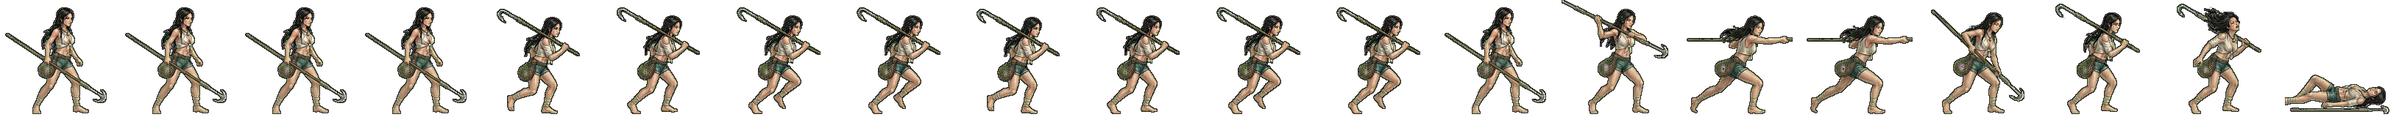
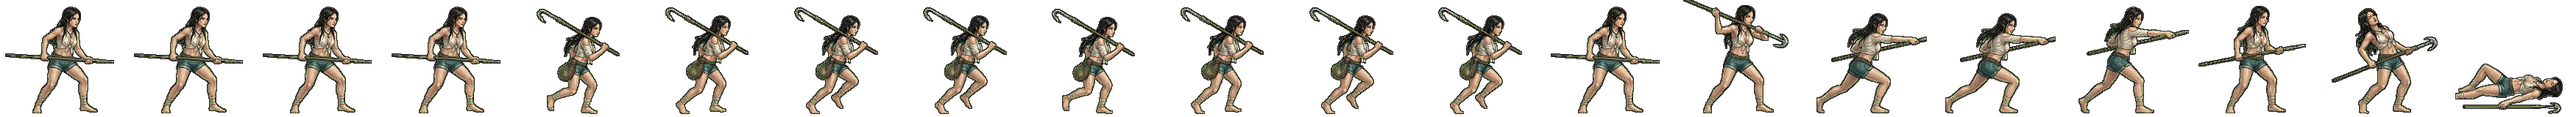
전투 띠 새로: sinneoul 동작 띠 다시 — 형이 구움 (굽기 꾸러미 · 검수 1·3번) (형 11-08)
Claude-Session: https://claude.ai/code/session_01TRiuNAG8xSjdmjCFpc8Rd5

Changed region(s): [[0.0, 0.0, 1.0, 0.9688]]

diff --git a/src/ui/realm/battle-strikes.ts b/src/ui/realm/battle-strikes.ts
@@ -143,7 +143,7 @@ const CONTACT: Readonly<Record<string, [number, number, number]>> = {
   'gen-haebi': [14, 0.87, 0.53], 'gen-heo': [14, 0.94, 0.46], 'gen-hyeokgeose': [14, 0.83, 0.94],
   'gen-hyeopbo': [14, .93, .21], 'gen-malgalgi': [14, 0.88, 0.28], 'gen-mari': [14, .98, .47],
   'gen-oi': [14, .98, .48], 'gen-onjo': [14, 0.83, 0.93], 'gen-soebi': [14, 0.80, 0.95],
-  'gen-soseono': [14, 0.92, 0.31], 'gen-maryeo': [14, 0.91, 0.79], 'gen-horselord': [14, 0.89, 0.25], 'gen-olddaeso': [14, 0.93, 0.91], 'gen-maro': [14, 0.97, 0.49], 'gen-gwaeyu': [14, 0.98, 0.71], 'gen-daemusin': [14, 0.91, 0.38], 'gen-tahae': [14, 0.91, 0.74], 'gen-ocheongan': [14, 0.82, 0.49], 'gen-yusugan': [14, 0.95, 0.70], 'gen-odogan': [14, 0.93, 0.28], 'gen-pidogan': [14, 0.94, 0.75], 'gen-yeodogan': [14, 0.93, 0.57], 'gen-adogan': [14, 0.95, 0.41], 'gen-musoe': [14, 0.94, 0.39], 'gen-suro': [14, 0.82, 0.53], 'gen-waechief': [14, 0.95, 0.68], 'gen-hojin': [14, 0.97, 0.64], 'gen-jita': [14, 0.94, 0.34], 'gen-guryema': [14, 0.89, 0.28], 'gen-jibaekho': [14, 0.97, 0.33], 'gen-sobeol': [14, 0.95, 0.33], 'gen-alpyeong': [14, 0.95, 0.54], 'gen-hogong': [14, 0.98, 0.27], 'gen-geumbawi': [14, 0.91, 0.92], 'gen-keundol': [14, 0.90, 0.68], 'gen-jinha': [14, 0.76, 0.93], 'gen-duman': [14, 0.97, 0.39], 'gen-gomok': [14, 0.94, 0.57], 'gen-hneoul': [14, 0.92, 0.27], 'gen-tneoul': [14, 0.84, 0.57], 'gen-sdallae': [14, 0.89, 0.29], 'gen-yucheongan': [14, 0.97, 0.64], 'gen-sincheongan': [14, 0.91, 0.71], 'gen-singwigan': [14, 0.91, 0.27], 'gen-mdallae': [14, 0.98, 0.30], 'gen-mulbeom': [14, 0.97, 0.36], 'gen-beomi': [14, 0.88, 0.43], 'gen-danbi': [14, 0.90, 0.30], 'gen-mulsae': [14, 0.93, 0.36], 'gen-darae': [14, 0.89, 0.29], 'gen-mir': [14, 0.91, 0.33], 'gen-wan': [14, 0.94, 0.30], 'gen-gom': [14, 0.94, 0.74], 'gen-sagong': [14, 0.79, 0.96], 'gen-halla': [14, 0.86, 0.46], 'gen-areum': [14, 0.86, 0.65], 'gen-dokmudeom': [14, 0.92, 0.29], 'gen-beom': [14, 0.98, 0.28], 'gen-baram': [14, 0.96, 0.24], 'gen-goeun': [14, 0.95, 0.66], 'gen-byeol': [14, 0.76, 0.96], 'gen-sinneoul': [14, 0.94, 0.33], 'gen-haesol': [14, 0.95, 0.39], 'gen-odi': [14, 0.95, 0.37], 'gen-irang': [14, 0.86, 0.30], 'gen-dalli': [14, 0.89, 0.32], 'gen-bakdal': [14, 0.94, 0.27], 'gen-noeul': [14, 0.88, 0.27], 'gen-maehwa': [14, 0.90, 0.31], 'gen-gaon': [14, 0.98, 0.48], 'gen-eomni': [14, 0.96, 0.42], 'gen-nuri': [14, 0.98, 0.42], 'gen-bira': [14, 0.88, 0.42], 'gen-gureum': [14, 0.98, 0.42],
+  'gen-soseono': [14, 0.92, 0.31], 'gen-maryeo': [14, 0.91, 0.79], 'gen-horselord': [14, 0.89, 0.25], 'gen-olddaeso': [14, 0.93, 0.91], 'gen-maro': [14, 0.97, 0.49], 'gen-gwaeyu': [14, 0.98, 0.71], 'gen-daemusin': [14, 0.91, 0.38], 'gen-tahae': [14, 0.91, 0.74], 'gen-ocheongan': [14, 0.82, 0.49], 'gen-yusugan': [14, 0.95, 0.70], 'gen-odogan': [14, 0.93, 0.28], 'gen-pidogan': [14, 0.94, 0.75], 'gen-yeodogan': [14, 0.93, 0.57], 'gen-adogan': [14, 0.95, 0.41], 'gen-musoe': [14, 0.94, 0.39], 'gen-suro': [14, 0.82, 0.53], 'gen-waechief': [14, 0.95, 0.68], 'gen-hojin': [14, 0.97, 0.64], 'gen-jita': [14, 0.94, 0.34], 'gen-guryema': [14, 0.89, 0.28], 'gen-jibaekho': [14, 0.97, 0.33], 'gen-sobeol': [14, 0.95, 0.33], 'gen-alpyeong': [14, 0.95, 0.54], 'gen-hogong': [14, 0.98, 0.27], 'gen-geumbawi': [14, 0.91, 0.92], 'gen-keundol': [14, 0.90, 0.68], 'gen-jinha': [14, 0.76, 0.93], 'gen-duman': [14, 0.97, 0.39], 'gen-gomok': [14, 0.94, 0.57], 'gen-hneoul': [14, 0.92, 0.27], 'gen-tneoul': [14, 0.84, 0.57], 'gen-sdallae': [14, 0.89, 0.29], 'gen-yucheongan': [14, 0.97, 0.64], 'gen-sincheongan': [14, 0.91, 0.71], 'gen-singwigan': [14, 0.91, 0.27], 'gen-mdallae': [14, 0.98, 0.30], 'gen-mulbeom': [14, 0.97, 0.36], 'gen-beomi': [14, 0.88, 0.43], 'gen-danbi': [14, 0.90, 0.30], 'gen-mulsae': [14, 0.93, 0.36], 'gen-darae': [14, 0.89, 0.29], 'gen-mir': [14, 0.91, 0.33], 'gen-wan': [14, 0.94, 0.30], 'gen-gom': [14, 0.94, 0.74], 'gen-sagong': [14, 0.79, 0.96], 'gen-halla': [14, 0.86, 0.46], 'gen-areum': [14, 0.86, 0.65], 'gen-dokmudeom': [14, 0.92, 0.29], 'gen-beom': [14, 0.98, 0.28], 'gen-baram': [14, 0.96, 0.24], 'gen-goeun': [14, 0.95, 0.66], 'gen-byeol': [14, 0.76, 0.96], 'gen-sinneoul': [14, 0.95, 0.33], 'gen-haesol': [14, 0.95, 0.39], 'gen-odi': [14, 0.95, 0.37], 'gen-irang': [14, 0.86, 0.30], 'gen-dalli': [14, 0.89, 0.32], 'gen-bakdal': [14, 0.94, 0.27], 'gen-noeul': [14, 0.88, 0.27], 'gen-maehwa': [14, 0.90, 0.31], 'gen-gaon': [14, 0.98, 0.48], 'gen-eomni': [14, 0.96, 0.42], 'gen-nuri': [14, 0.98, 0.42], 'gen-bira': [14, 0.88, 0.42], 'gen-gureum': [14, 0.98, 0.42],
   'gen-biryu': [14, 0.90, 0.35], 'gen-geumha': [14, 0.94, 0.61], 'gen-geota': [14, 0.86, 0.47], 'gen-soebo': [14, 0.87, 0.57],
   'gen-gaennae': [14, 249 / 264, 47 / 160],
   'gen-budeul': [14, 266 / 280, 51 / 160],

diff --git a/src/realm/data/art.ts b/src/realm/data/art.ts
@@ -520,7 +520,7 @@ export const GEN_ANIM: Readonly<Partial<Record<string, { ar: number; body: numbe
   soenun: { ar: 280 / 160, body: 0.9375 }, // 11-08 쇠눈 · 제미나이 u/2 2×2(겨눔·찌르기·거둠·피격) + 새 대화 쓰러짐 · 갯내 4실보행 하체(짙은 바지 · 걷는 동안 쇠 정강이받이는 장화로 보인다) · 창 자루는 걷기에도 남긴다
   odi: { ar: 155 / 160, body: 0.906 }, // 11-08 초상대로 다시 (형: 「투구 쓰고 원본과 다르다」 · 제미나이 걷기 4×2 + 동작 4×2 → 20컷 · assets_src/realm/gemini/generals2) · 11-08 처음 · 오디 동작 띠 다시 — 창 가운데를 두 손으로 잡고 창날이 보이게 찌른다 (SPEAR 절 · 검수 1번)
   haesol: { ar: 167 / 160, body: 0.906 }, // 11-08 초상대로 다시 (형: 「투구 쓰고 원본과 다르다」 · 제미나이 걷기 4×2 + 동작 4×2 → 20컷 · assets_src/realm/gemini/generals2) · 11-08 처음 · haesol 동작 띠 다시 — 형이 구움 (굽기 꾸러미 · 검수 1·3번)
-  sinneoul: { ar: 163 / 160, body: 0.906 }, // 11-08 초상대로 다시 (형: 「투구 쓰고 원본과 다르다」 · 제미나이 걷기 4×2 + 동작 4×2 → 20컷 · assets_src/realm/gemini/generals2) · 11-08 처음 · 신지 너울(젖은 긴 머리·묶어 입은 흰 삼베 윗옷·짧은 바지·그물 주머니·갈고리 작살 · 맨발)
+  sinneoul: { ar: 175 / 160, body: 0.906 }, // 11-08 초상대로 다시 (형: 「투구 쓰고 원본과 다르다」 · 제미나이 걷기 4×2 + 동작 4×2 → 20컷 · assets_src/realm/gemini/generals2) · 11-08 처음 · sinneoul 동작 띠 다시 — 형이 구움 (굽기 꾸러미 · 검수 1·3번)
   byeol: { ar: 155 / 160, body: 0.906 }, // 11-08 초상대로 다시 (형: 「투구 쓰고 원본과 다르다」 · 제미나이 걷기 4×2 + 동작 4×2 → 20컷 · assets_src/realm/gemini/generals2) · 11-08 처음 · 벽진 별(땋은 머리·흰 민소매에 가죽 대장장이 앞치마·맨발·달군 쇠칼 내려치기)
   goeun: { ar: 142 / 160, body: 0.900 }, // 11-08 초상대로 다시 (형: 「투구 쓰고 원본과 다르다」 · 제미나이 걷기 4×2 + 동작 4×2 → 20컷 · assets_src/realm/gemini/generals2) · 11-08 처음 · 신라 고은(붉은 끈 긴 머리·짙은 붉은 비단 짧은 저고리·높게 트인 치마·곧은 고리자루 칼 베기)
   baram: { ar: 173 / 160, body: 0.900 }, // 11-08 초상대로 다시 (형: 「투구 쓰고 원본과 다르다」 · 제미나이 걷기 4×2 + 동작 4×2 → 20컷 · assets_src/realm/gemini/generals2) · 11-08 처음 · 고사부리 바람(바람에 날리는 긴 머리·크림빛 긴 목도리·짙은 남색 짧은 윗옷·트인 치마·청동 잎 단검 찌르기)
